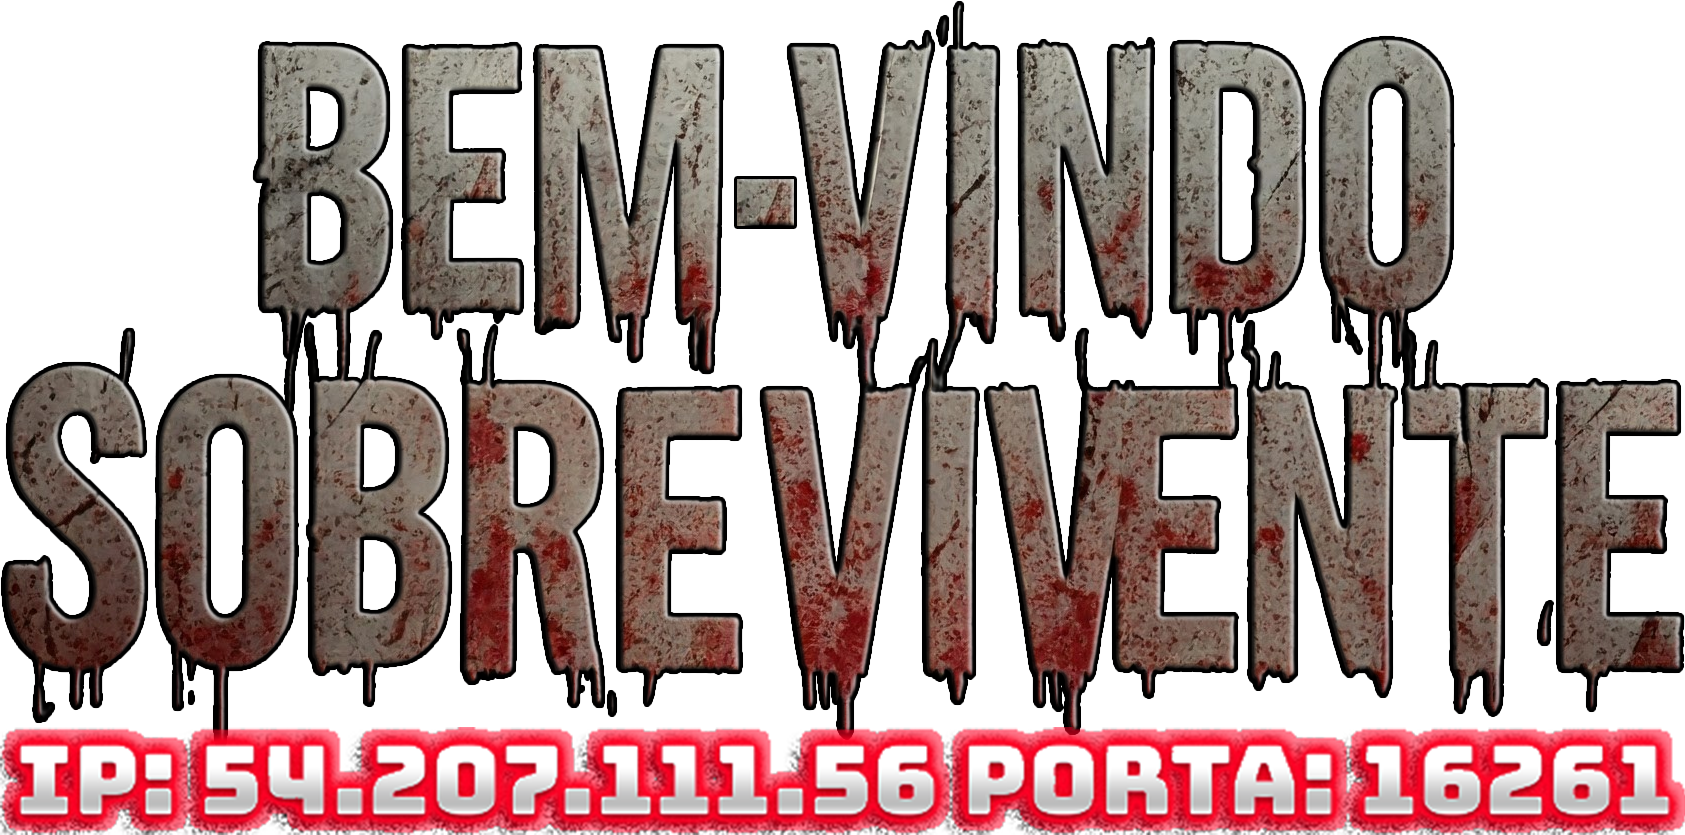
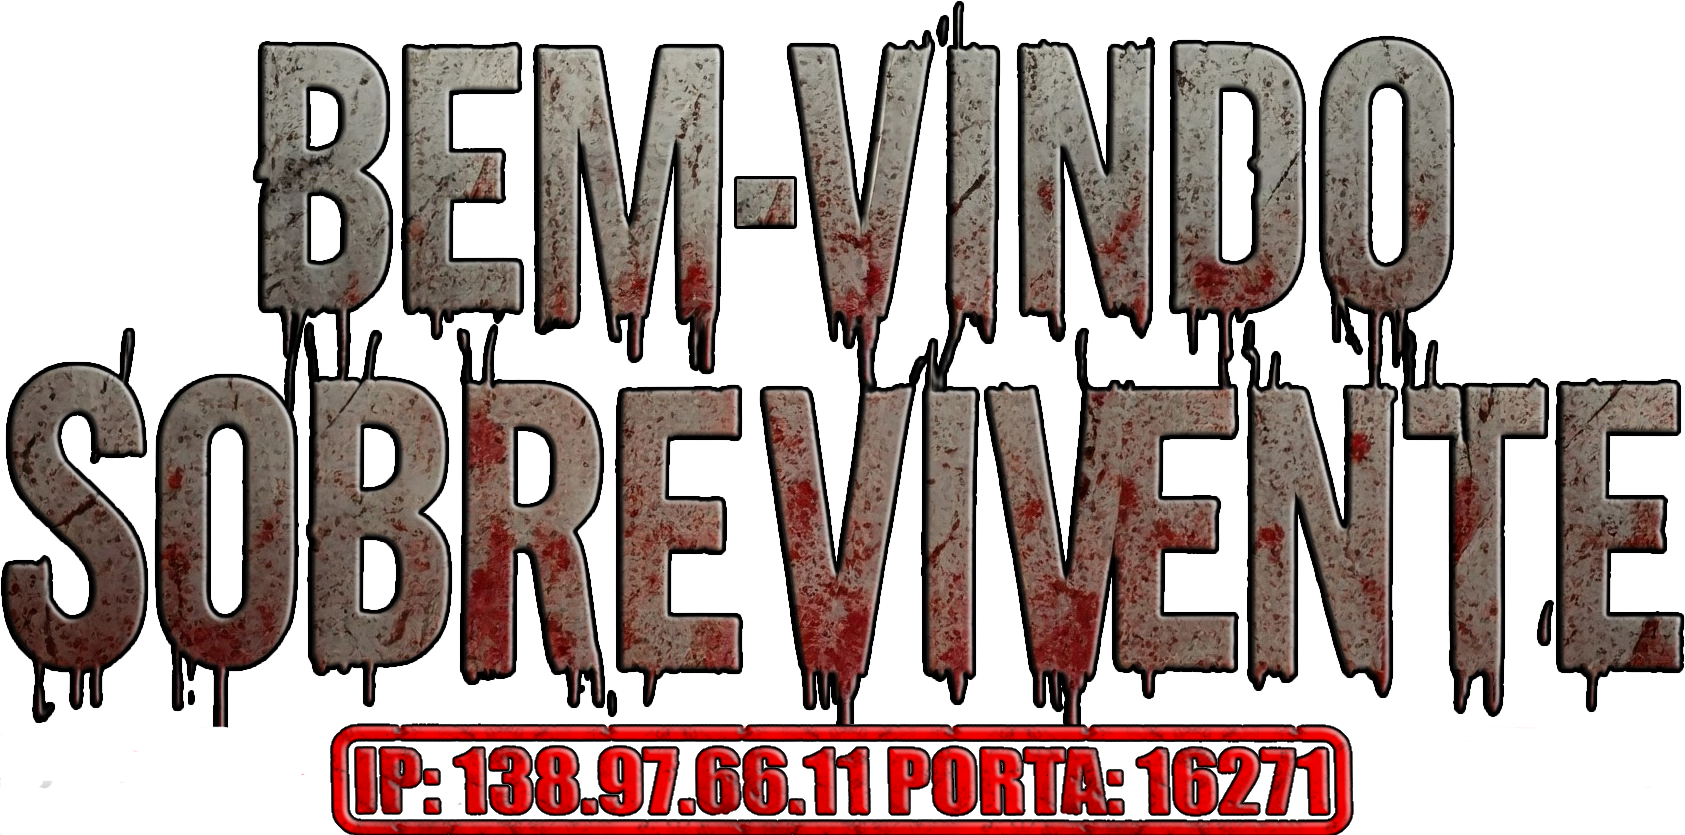
update IP and port and adjust the height and width of the central items

Changed region(s): [[0.0, 0.8407, 1.0, 1.0]]

diff --git a/index.css b/index.css
@@ -15,8 +15,8 @@ ul img {
     height: 50px;
 }
 header img {
-    width: 480px;
-    height: 180px;
+    width: 780px;
+    height: 380px;
 }
 header {
     text-align: center;
